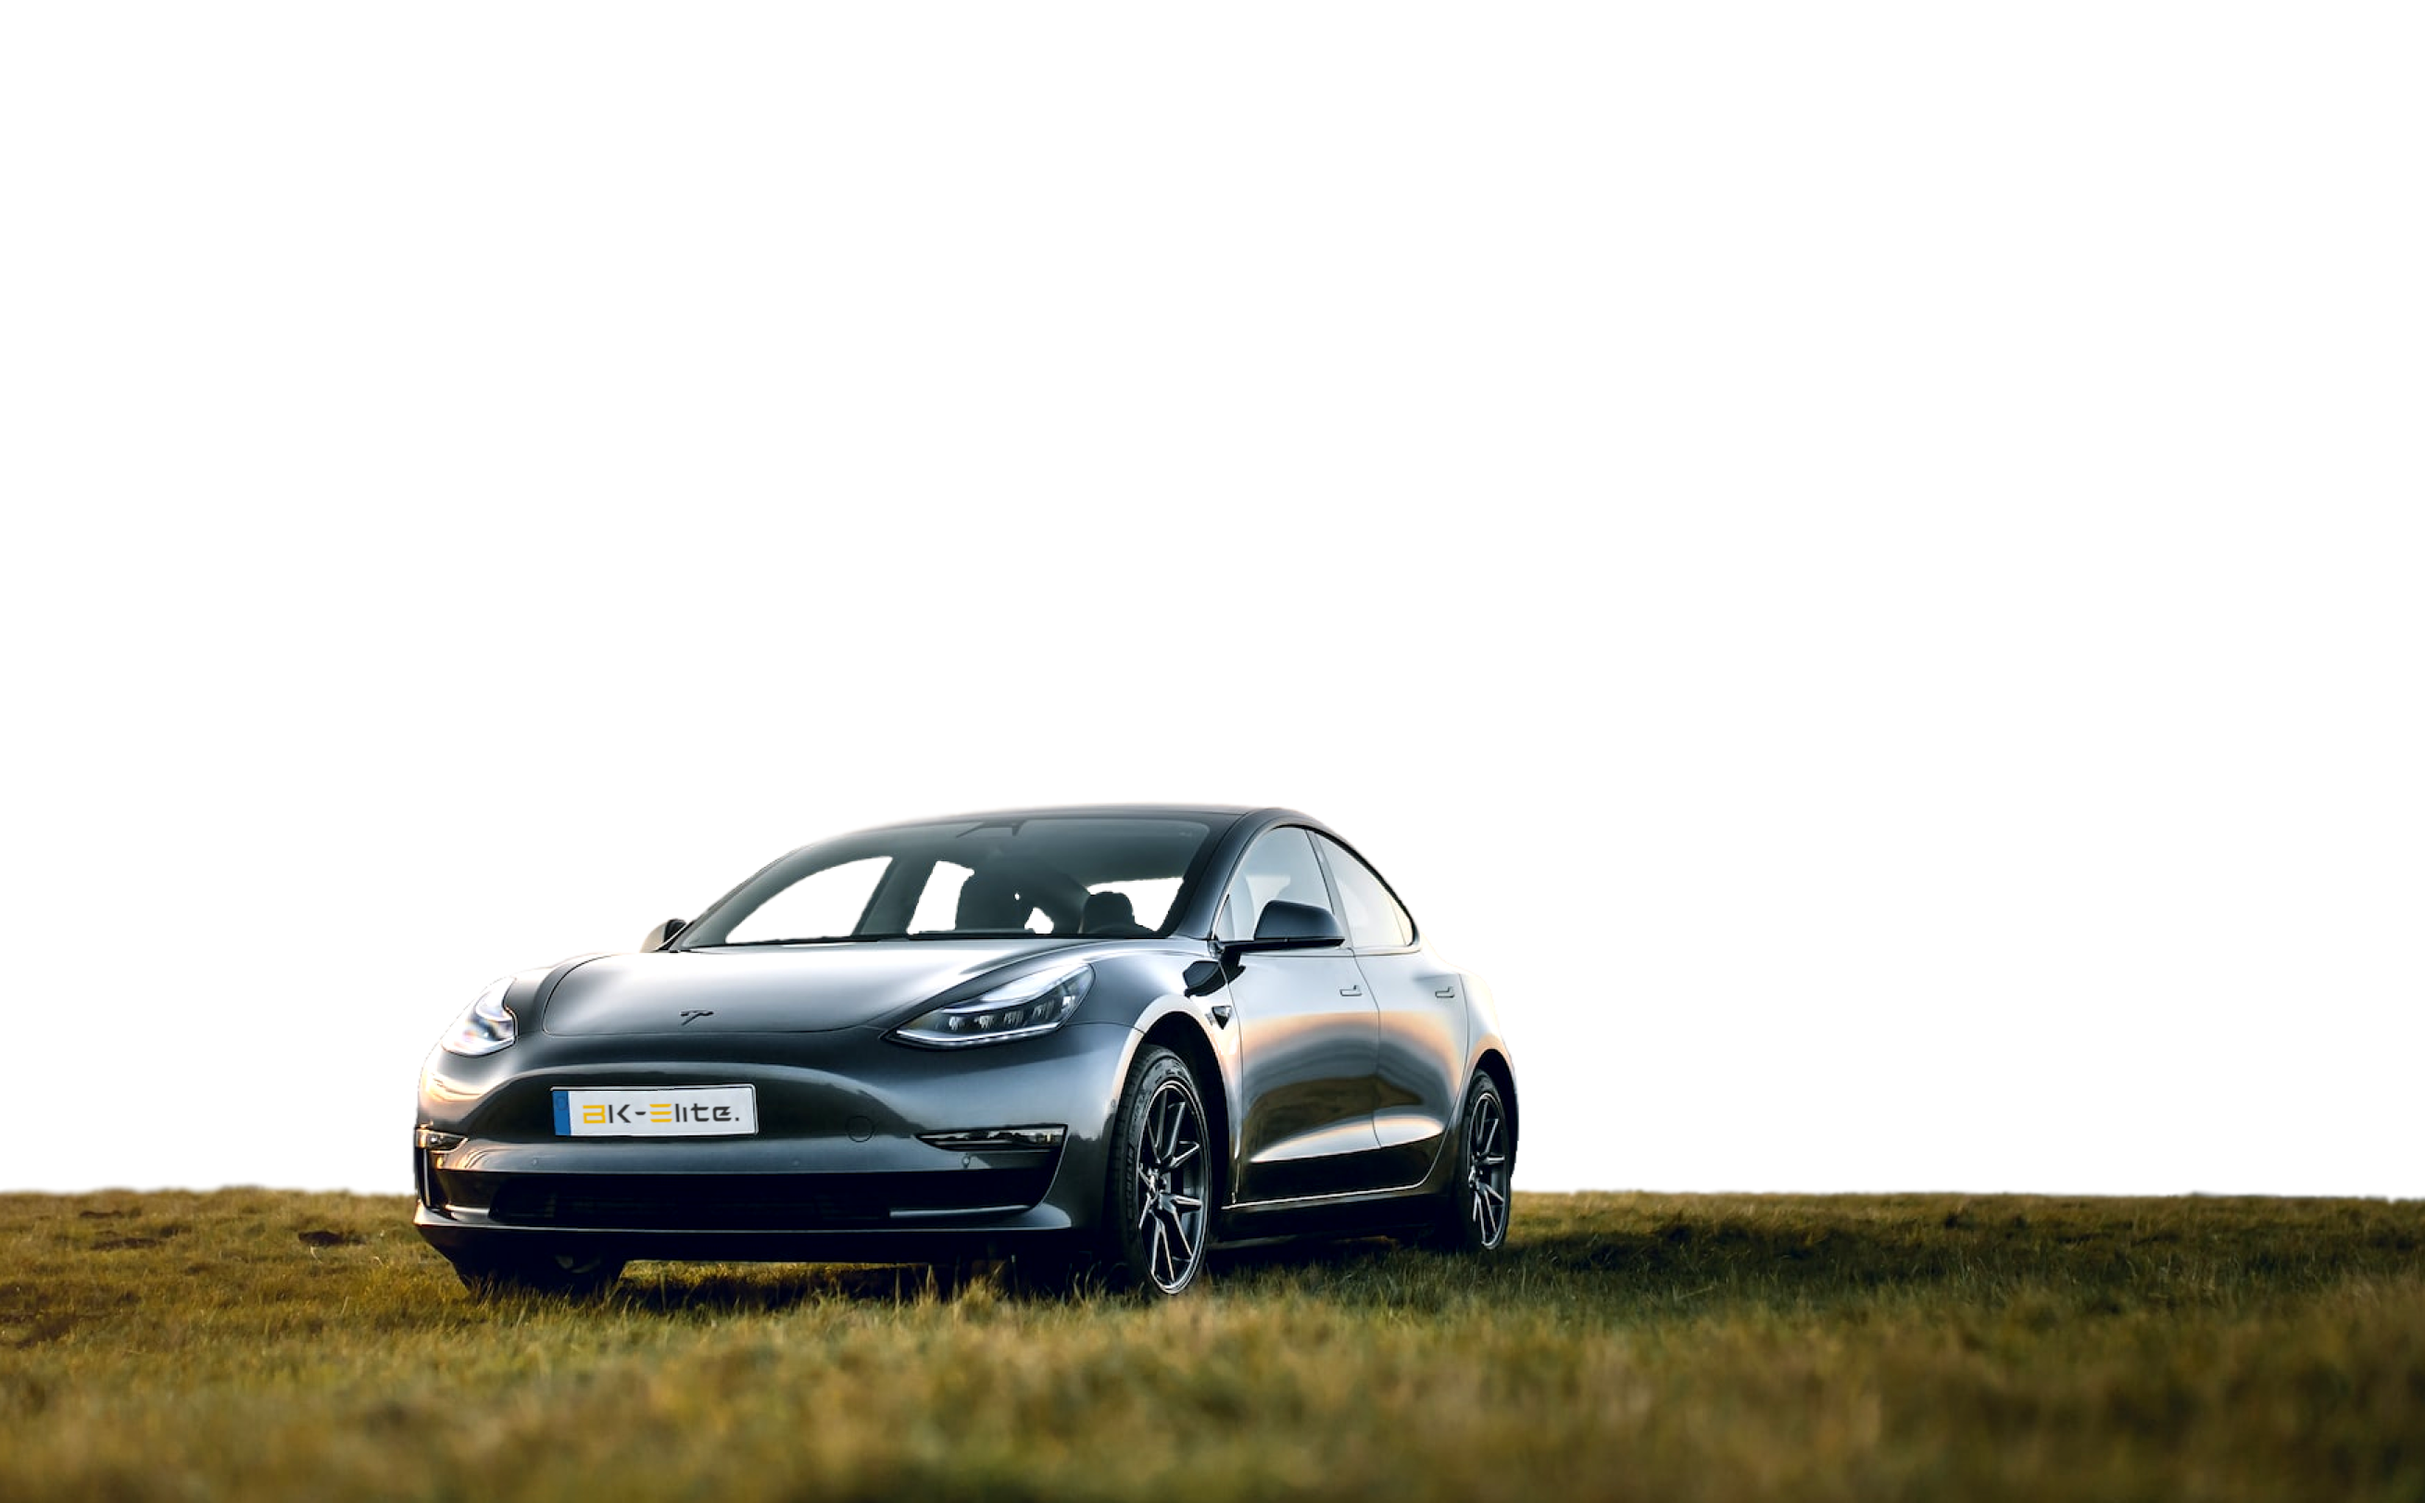
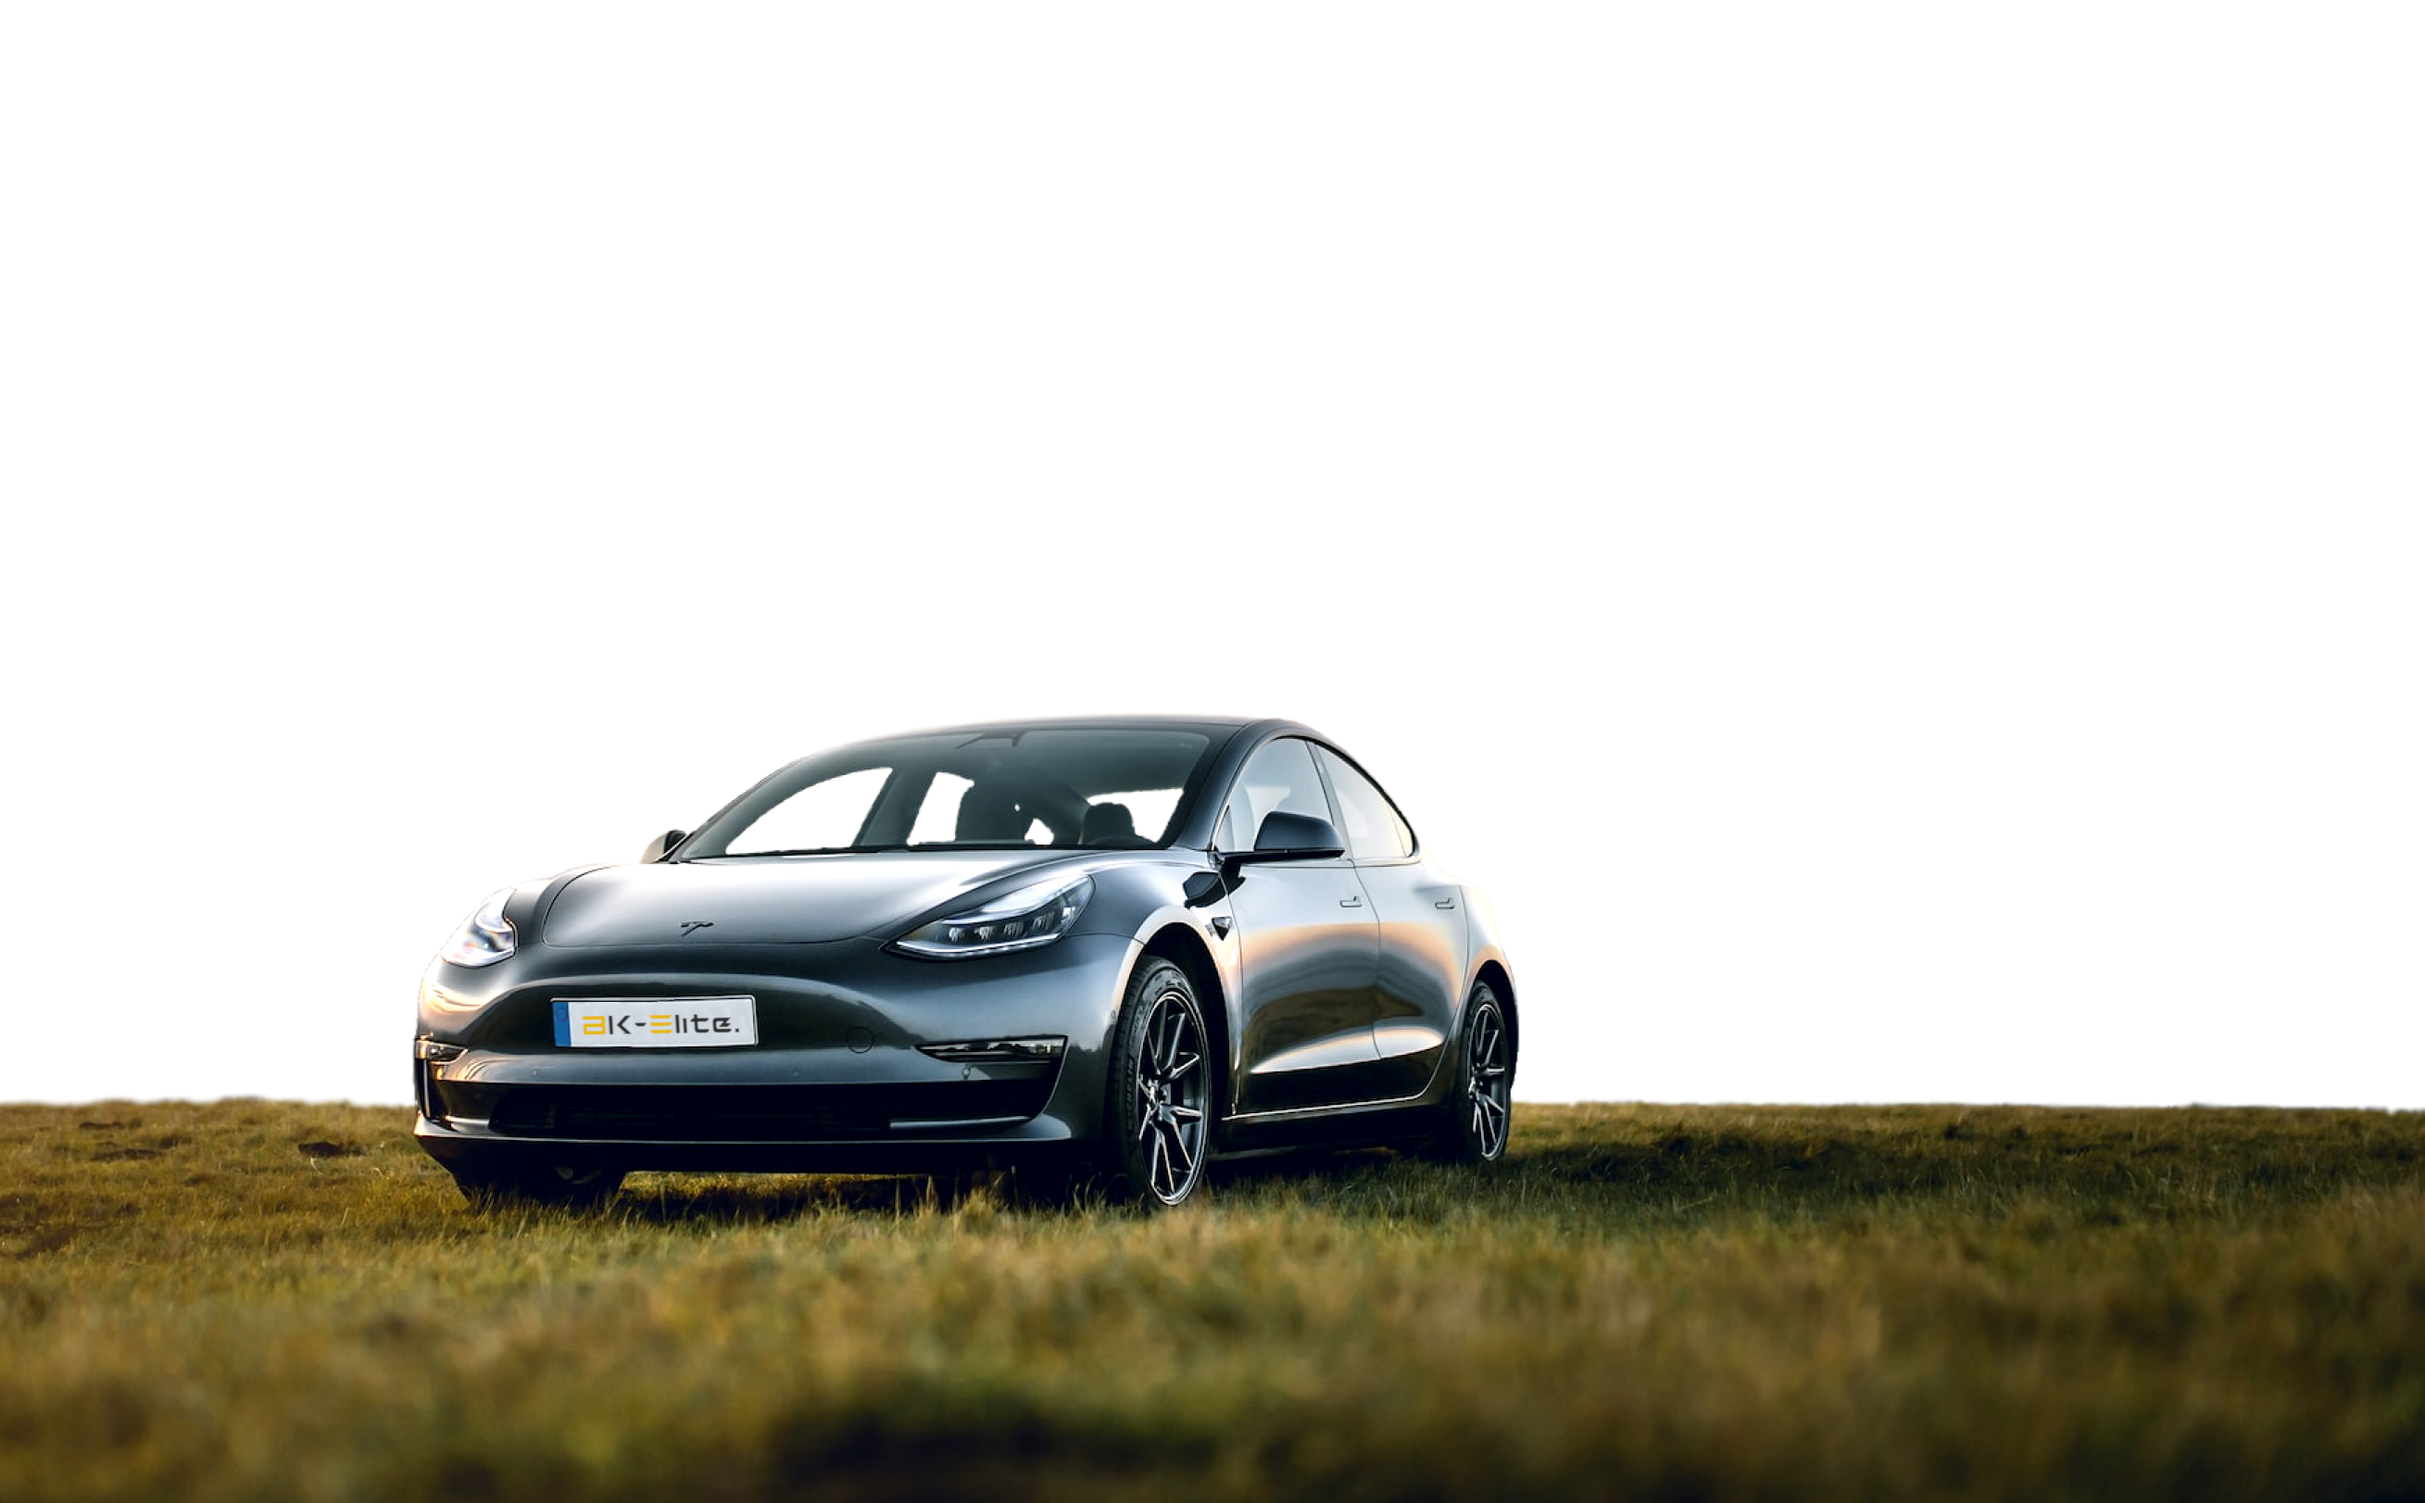
ajout d'une modale info dans les véhicules

Changed region(s): [[0.0, 0.4621, 1.0, 1.0]]

diff --git a/src/Components/Cars/Cars.js b/src/Components/Cars/Cars.js
@@ -63,6 +63,7 @@ const Cars = () => {
 
     const [carsCtg, setCarsCtg] = useState(0);
     const [carsSlide, setCarsSlide] = useState({from: undefined, to: 'sedan'});
+    const [showInfo, setShowInfo] = useState(false);
 
     function displayCars(index) {
         const slider = document.querySelector('.img-ctn .cars-slider');
@@ -188,10 +189,36 @@ const Cars = () => {
                         <h4>Vous cherchez un moyen de transport confortable et élégant pour vos déplacements?</h4>                             
                     </div>
                 </div>
-                <div className="cars-static-message">
-                    <p>Notre <strong>service de chauffeur privé VTC</strong> vous offre une sélection de véhicules haut-de-gamme pour répondre à tous vos besoins. Nous proposons des modèles tels que la <span className="colored">Tesla Model 3</span>, la <span className="colored">Mercedes Classe V</span> et la <span className="colored">Berline Classe E</span>, tous équipés pour votre confort et votre sécurité. Nos chauffeurs professionnels et expérimentés vous conduiront à votre destination en toute sérénité, pour une expérience de voyage inoubliable.</p>
-                </div>
+                {/* <div className="cars-static-message">
+                    <p>Notre <strong>service de chauffeur privé VTC</strong> vous offre une sélection de véhicules haut-de-gamme pour répondre à tous vos besoins. Nous proposons des modèles tels que la <span className="colored">Tesla Model 3</span>, la <span className="colored">Mercedes Classe V</span> et la <span className="colored">Berline Classe E</span>, tous équipés pour votre confort et votre sécurité.</p>
+                </div> */}
                 <div className="content">
+                    <div className="left-info" onClick={() => setShowInfo(!showInfo)}>
+                        <div className="scaled-color"></div>
+                        <svg width="16" height="32" viewBox="0 0 16 32" fill="none" xmlns="http://www.w3.org/2000/svg">
+                            <path d="M2 16C3.105 16 4 16.895 4 18V26C4 27.105 3.105 28 2 28H0V32H16V28H14.008C12.906 28 12.008 27.105 12.008 26L12 12H0V16H2Z" fill="#040613"/>
+                            <path d="M8 8C10.2091 8 12 6.20914 12 4C12 1.79086 10.2091 0 8 0C5.79086 0 4 1.79086 4 4C4 6.20914 5.79086 8 8 8Z" fill="#040613"/>
+                        </svg>
+                        {(showInfo) ? 
+                            <div className="cars-info">
+                                <div className='info-title'>
+                                    <h5>Véhicules disponibles</h5>    
+                                </div>
+                                <div>
+                                    <p>
+                                        Notre <strong>service de chauffeur privé VTC</strong> vous offre une sélection de véhicules haut-de-gamme pour répondre à tous vos besoins.
+                                    </p>
+                                    <p>
+                                        Nous proposons des modèles tels que la 
+                                        <span className="colored"> Tesla Model 3</span>, la 
+                                        <span className="colored"> Mercedes Classe V</span> et la 
+                                        <span className="colored"> Berline Classe E</span>, tous équipés pour votre confort et votre sécurité.
+                                    </p>
+                                </div>
+                            </div>
+                            : null
+                        }
+                    </div>
                    <div className="car-name-banner">
                         <h4>{carsArray[carsCtg].title}</h4>
                    </div>

diff --git a/src/Style/components/_cars.scss b/src/Style/components/_cars.scss
@@ -76,27 +76,81 @@
             }
         }
 
-        .cars-static-message {
-            height: 100px;
-            width: 100%;
-            margin-top: 25px;
-            padding-left: 10%;
+        // .cars-static-message {
+        //     height: 100px;
+        //     width: 100%;
+        //     margin-top: 25px;
+        //     padding-left: 10%;
 
-            p {
-                font-size: 1.2em;
-            }
-        }
+        //     p {
+        //         font-size: 1.2em;
+        //     }
+        // }
 
         .content {
-            height: calc(100% - 190px);
+            height: calc(100% - 65px);
             width: 100%;
             display: flex;
             align-items: flex-end;
             justify-content: space-evenly;
             padding-left: 20%;
 
+            .left-info {
+                position: absolute;
+                left: 0;
+                top: 220px;             
+                height: 115px;
+                width: 27px;
+                display: flex;
+                justify-content: center;
+                align-items: center;
+                cursor: pointer;
+
+                svg {
+                    position: relative;
+                    bottom: 2px;
+                    pointer-events: none;
+                }
+
+                .scaled-color {
+                    height: 100%;
+                    width: 100%;
+                    background-color: $color_secondary;
+                    position: absolute;
+                    transition: 300ms;
+                    transform-origin: left;
+
+                    &:hover {
+                        transform: scaleX(1.2);
+                    }
+                }
+
+                .cars-info {
+                    position: absolute;
+                    height: auto;
+                    width: 300px;
+                    padding: 20px;
+                    right: -330px;
+                    top: 0px;
+                    background-color: $color_primary;
+                    font-size: 1.2em;
+
+                    .info-title {
+                        margin-bottom: 15px;
+                        h5 {
+                            font-size: 1.3em;
+                            color: $color_secondary;
+                        }
+                    }
+
+                    p {
+                        margin-bottom: 15px;
+                    }
+                }
+            }
+
             .car-name-banner {
-                height: 100%;
+                height: 90%;
                 width: 50%;
                 min-width: 200px;
                 background-color: #C3C3C3;
@@ -111,7 +165,7 @@
             }
 
             .car-info-banner {
-                height: 100%;
+                height: 90%;
                 width: 25%;
                 min-width: 200px;
                 background-color: $color_secondary;

diff --git a/src/Components/Services/Services.js b/src/Components/Services/Services.js
@@ -16,7 +16,7 @@ const servicesArray = [
     {
         title : 'Transfert aéroport',
         p1 : <p dangerouslySetInnerHTML={{__html: 'Vous prenez l\'avion pour les affaires ou pour le tourisme ? Nous savons que voyager peut être <b>éprouvant</b>.'}} />,
-        p2 : <p dangerouslySetInnerHTML={{__html: 'Nos chauffeurs expérimentés vous accueillent dès votre arrivée à l\'aéroport et vous accompagnent jusqu\'à votre destination finale en toute sécurité et confort. Nos véhicules haut-de-gamme garantissent un trajet agréable et relaxant, pour que vous puissiez vous détendre et vous concentrer sur vos affaires ou votre voyage.'}} />,
+        p2 : <p dangerouslySetInnerHTML={{__html: 'Nos chauffeurs vous accueillent dès votre arrivée à l\'aéroport et vous accompagnent jusqu\'à votre destination finale en toute sécurité et confort. Nous vous garantissons un trajet agréable et relaxant, pour que vous puissiez vous détendre et vous concentrer sur vos affaires ou votre voyage.'}} />,
     },
     {
         title : 'Longues distances',

diff --git a/src/Style/_mediaqueries.scss b/src/Style/_mediaqueries.scss
@@ -67,9 +67,22 @@
                             width: 90%;
                         }
                     }
+
+                    .book-link {
+                        width: 10px;
+                        min-width: auto;
+
+                        div {
+                            display: none;
+                        }
+                    }
                 }
             }
         }
     }
-    
+}
+
+/* Petites tablettes (portrait and landscape) ----------- */
+@media only screen and (max-device-width : 768px) {
+
 }

diff --git a/src/Style/components/_services.scss b/src/Style/components/_services.scss
@@ -70,7 +70,7 @@
             padding-left: 8%;
 
             .main-banner {
-                height: 90%;
+                max-height: 95%;
                 width: 50%;
                 min-width: 490px;
                 background-color: rgba(52, 46, 44, 0.85);

diff --git a/src/Style/_settings.scss b/src/Style/_settings.scss
@@ -59,7 +59,7 @@ ul {
     list-style-type: none;
 }
 
-button, p, li, h2, h3, h4, label, a{
+button, p, li, h2, h3, h4, h5, label, a{
     font-family: 'Smooch Sans', sans-serif;
 }
 
